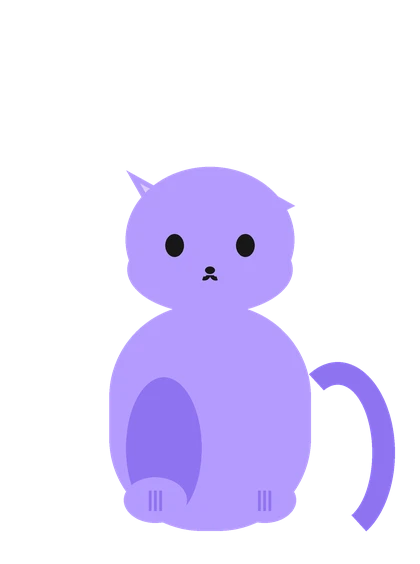
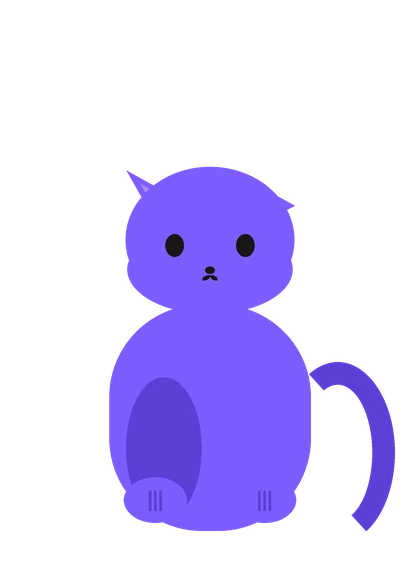
brand: Nova's fur deepens to the brand violet for real contrast
The light lavender fur couldn't carry the Nova theme's accent: the
self-test's contrast checks (and plain readability) want >= 140 of
channel distance from the porcelain ground, and the look's accent is
nova::FUR by design (one accent for the theme, as upstream kept). The
fur and fold deepen to the brand's own #7C5CFF / #5B3FD6. The mark SVG,
the Swift fixture's fills and the phone art follow.

Changed region(s): [[0.2476, 0.2713, 0.9595, 0.9645]]

diff --git a/crates/nexora-core/src/nova/svg.rs b/crates/nexora-core/src/nova/svg.rs
@@ -51,7 +51,7 @@ impl Canvas {
     }
 }
 
-/// `0xRRGGBB` the way CSS and the Swift port write it: "#B49BFF".
+/// `0xRRGGBB` the way CSS and the Swift port write it: "#7C5CFF".
 pub fn css(rgb: u32) -> String {
     format!("#{rgb:06X}")
 }
@@ -273,8 +273,8 @@ mod tests {
             Canvas::face(96.0),
             "nova",
         );
-        assert!(svg.contains("fill=\"#B49BFF\""));
-        assert!(svg.contains("fill=\"#8F73F2\""));
+        assert!(svg.contains("fill=\"#7C5CFF\""));
+        assert!(svg.contains("fill=\"#5B3FD6\""));
         assert!(svg.contains("fill=\"#171717\""));
         assert!(!svg.contains("<mask"));
     }
@@ -329,8 +329,8 @@ mod tests {
 
     #[test]
     fn colours_are_written_as_css_hex() {
-        assert_eq!(css(FUR), "#B49BFF");
-        assert_eq!(css(FOLD), "#8F73F2");
+        assert_eq!(css(FUR), "#7C5CFF");
+        assert_eq!(css(FOLD), "#5B3FD6");
         assert_eq!(css(INK), "#171717");
         assert_eq!(css(PINK), "#FF4F8B");
         assert_eq!(css(GREEN), "#1E9E4A");

diff --git a/crates/nexora-core/src/look.rs b/crates/nexora-core/src/look.rs
@@ -102,6 +102,9 @@ pub enum Shape {
 }
 
 const NOVA_FUR: Color = Color::hex(crate::nova::FUR);
+/// The theme's accent: the deep tile violet, so rings and times keep the
+/// contrast the light fur can't give on the porcelain ground.
+const NOVA_ACCENT: Color = Color::hex(0x6E4BE8);
 const NOVA_FOLD: Color = Color::hex(crate::nova::FOLD);
 
 pub const CLASSIC: Look = Look {
@@ -122,7 +125,7 @@ pub const CLASSIC: Look = Look {
 pub const NOVA: Look = Look {
     ground: Color::hex(0xF3F0FF),
     ink: Color::hex(0x271E4A),
-    accent: Some(NOVA_FUR),
+    accent: Some(NOVA_ACCENT),
     border: Color::rgba(0.24, 0.20, 0.45, 0.22),
     light: true,
     font: Some("Outfit"),

diff --git a/crates/nexora-core/src/nova/mod.rs b/crates/nexora-core/src/nova/mod.rs
@@ -27,9 +27,9 @@ use std::sync::OnceLock;
 // The colours, as 0xRRGGBB (what `geom::Color::hex` takes).
 
 /// The head, and the ear tip's front while it stands up.
-pub const FUR: u32 = 0xB49BFF;
+pub const FUR: u32 = 0x7C5CFF;
 /// The ear tip's back, which shows while it lies folded.
-pub const FOLD: u32 = 0x8F73F2;
+pub const FOLD: u32 = 0x5B3FD6;
 /// The eyes.
 pub const INK: u32 = 0x171717;
 /// Love's hearts.

diff --git a/server/make_phone_art.py b/server/make_phone_art.py
@@ -19,9 +19,9 @@ from PIL import Image, ImageDraw
 ROOT = Path(__file__).resolve().parents[1]
 OUT = ROOT / "server" / "public"
 
-FUR = "#B49BFF"
-FUR_DARK = "#8F73F2"
-INNER = "#D9CCFF"
+FUR = "#7C5CFF"
+FUR_DARK = "#5B3FD6"
+INNER = "#A78BFA"
 INK = "#171717"
 FIELD = "#EFEAFF"
 WHITE = "#FFFFFF"

diff --git a/docs/design.md b/docs/design.md
@@ -6,10 +6,10 @@
 |---|---|---|
 | Product name | **Nexora** | everywhere user-visible |
 | Mascot | **Nova** | the app's cat, drawn procedurally from vectors (`nexora_core::nova`), recoloured from the upstream mascot to Nexora's palette |
-| Accent (primary) | `#7C5CFF` violet | replaces the upstream orange `#F0892E` in UI accents, logo, installers, website |
-| Accent (deep) | `#4F46E5` indigo | logo gradient end, pressed states |
+| Accent (primary) | `#7C5CFF` violet | replaces the upstream orange `#F0892E` in UI accents, logo, installers, website — and is Nova's fur and the Nova theme's accent, so one violet reads on both the porcelain theme and black |
+| Accent (deep) | `#5B3FD6` indigo | Nova's ear fold; pressed states |
+| Tile (logo ground) | `#8B6CFF` → `#6E4BE8` gradient | the logo tile; `#6E4BE8` is the theme accent's deep end |
 | Ink | `#171717` | dark surfaces, text on light |
-| Tile (logo ground) | violet → indigo vertical gradient | rounded-corner tile, like the upstream mark's tile |
 | Theme names | Classic, **Nova**, Glass, Pill, Diorama | "Nova" replaces the upstream mascot theme |
 | Typeface | Outfit (OFL) | unchanged; `server/OFL-Outfit.txt` carries the licence |
 | Logo | `docs/brand/nexora-logo.svg` (+ `-512.png`, `-white.svg` mark) | generated by `tools/make_brand.py`; a rounded violet tile with the black island playing music at its top edge and the white Nova below |

diff --git a/docs/guidelines/03-brand-assets.md b/docs/guidelines/03-brand-assets.md
@@ -18,7 +18,7 @@ the ported tools so they can be redrawn at will.
 | Equalizer / lavender accents | `#B49BFF` |
 | Dusk album cover | `#C9BAFF` → `#8F73F2` → `#3D2E8C` → `#191244` |
 | Ink | `#171717` |
-| Mascot fur / fold | `#B49BFF` / `#8F73F2` (Task 03c recolours the app's cat to match) |
+| Mascot fur / fold | `#7C5CFF` / `#5B3FD6` (the brand accent itself: one accent reads on both the porcelain theme and black) |
 
 ## 03a — logo, icon, installer art (`tools/make_brand.py`)
 
